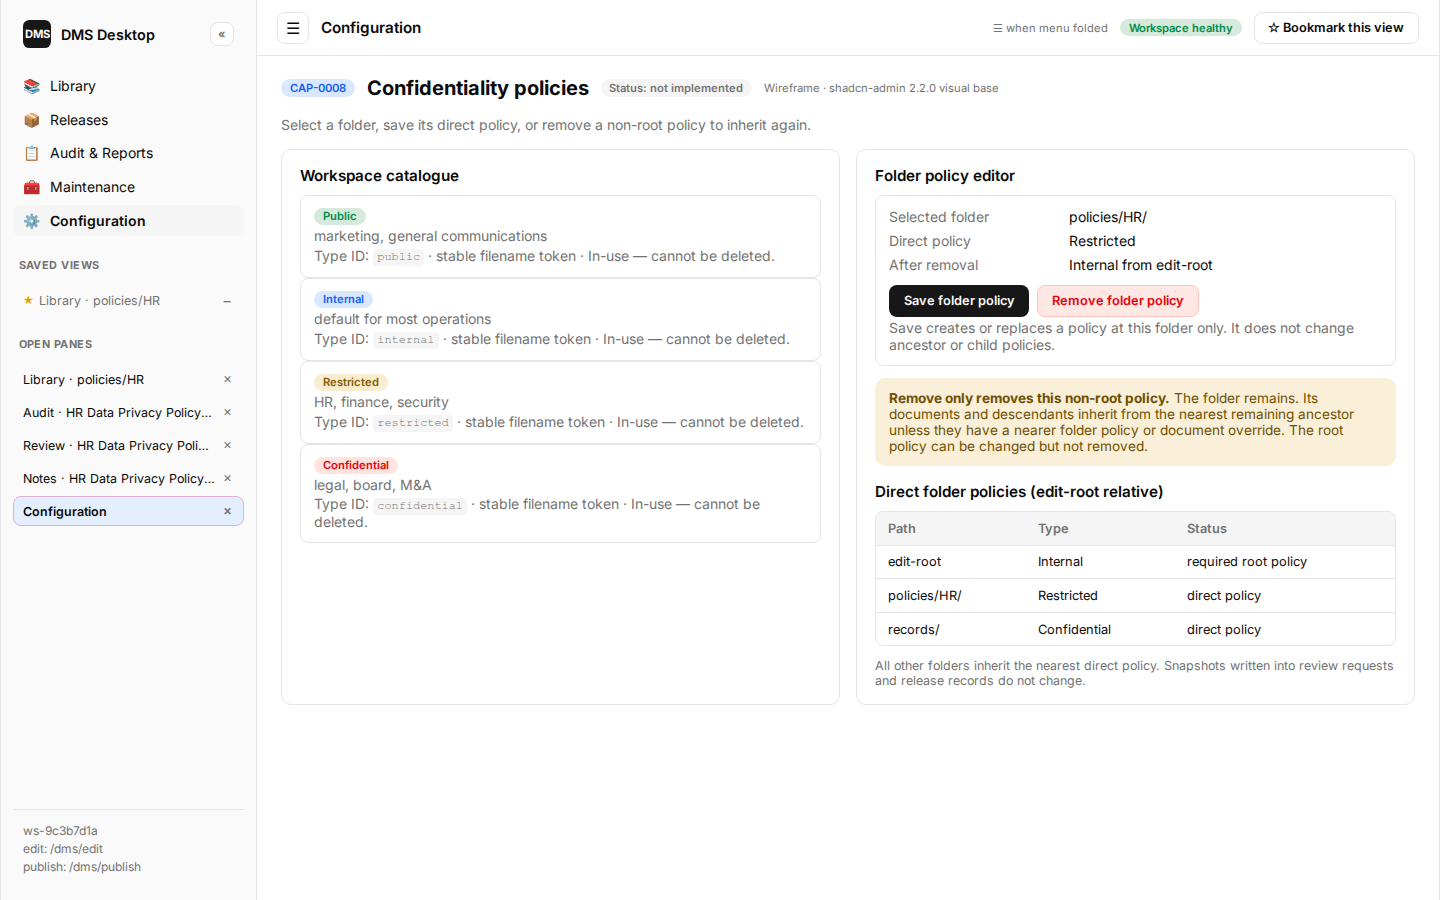
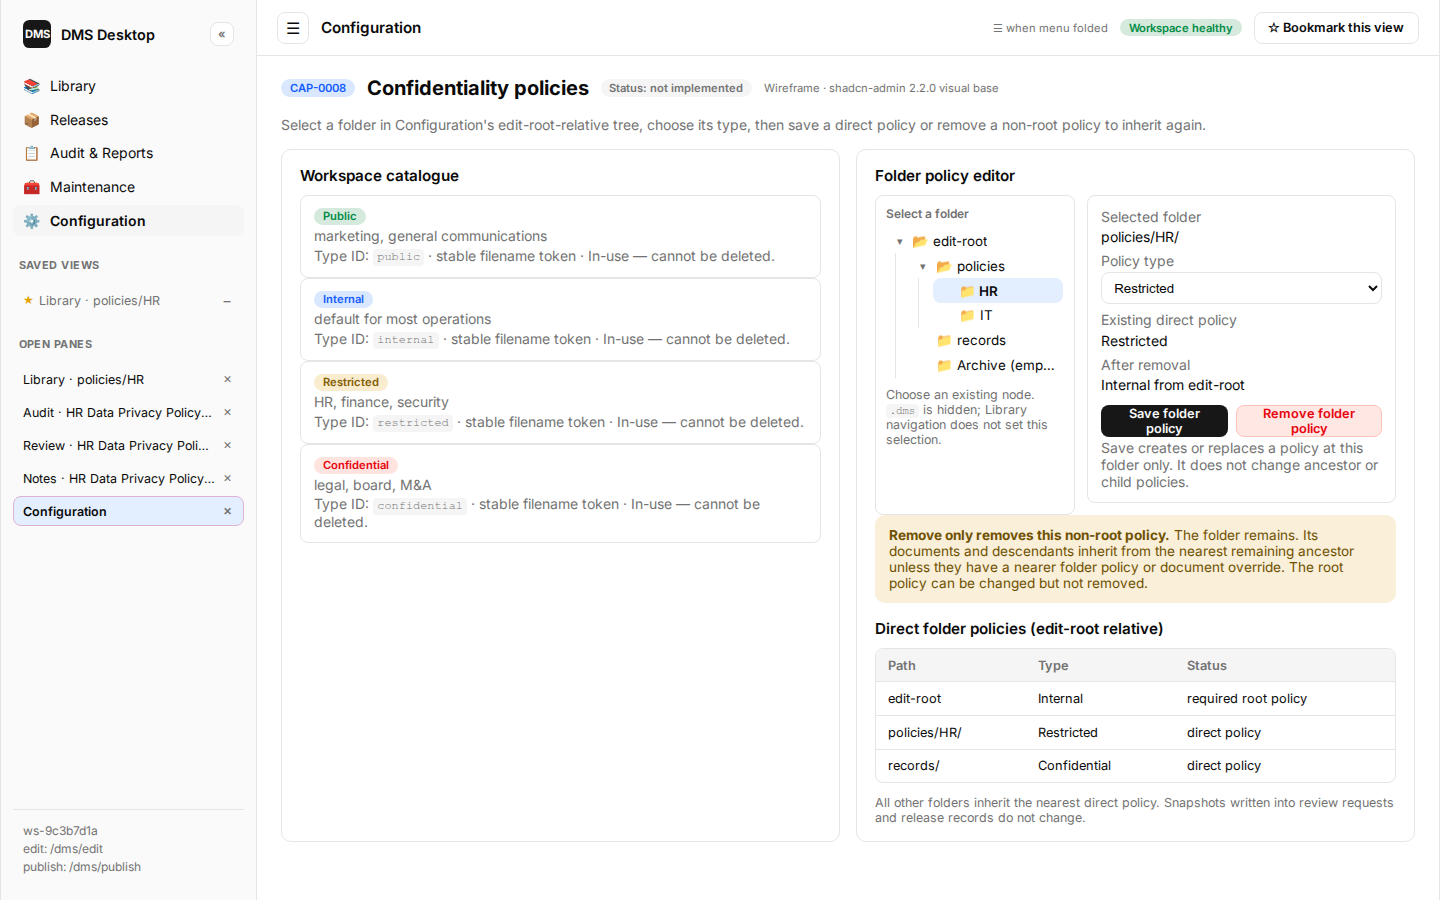
docs(confidentiality): clarify folder policy selection

Changed region(s): [[0.5938, 0.2178, 0.9688, 0.9333], [0.25, 0.1244, 0.8438, 0.1556]]

diff --git a/docs/product/wireframes/html/CAP-0008-confidentiality-classification.html b/docs/product/wireframes/html/CAP-0008-confidentiality-classification.html
@@ -226,8 +226,11 @@ tr:last-child td { border-bottom: 0; }
         <span class="badge muted">Status: not implemented</span>
         <span class="wire-meta">Wireframe · shadcn-admin 2.2.0 visual base</span>
       </div>
-      <p class="subtitle">Select a folder, save its direct policy, or remove a non-root policy to inherit again.</p>
+      <p class="subtitle">Select a folder in Configuration's edit-root-relative tree, choose its type, then save a direct policy or remove a non-root policy to inherit again.</p>
       
+      <style>
+        .app[data-cap="CAP-0008"] .policy-editor-details > div { grid-template-columns: 1fr; gap: 0.2rem; }
+      </style>
       <div class="grid-2">
         <section class="card">
           <h3 class="card-title">Workspace catalogue</h3>
@@ -238,10 +241,37 @@ tr:last-child td { border-bottom: 0; }
         </section>
         <section class="card">
           <h3 class="card-title">Folder policy editor</h3>
-          <div class="type-card mb">
-            <dl class="kv"><div><dt>Selected folder</dt><dd>policies/HR/</dd></div><div><dt>Direct policy</dt><dd>Restricted</dd></div><div><dt>After removal</dt><dd>Internal from edit-root</dd></div></dl>
+          <div class="grid-explorer" style="grid-template-columns:12.5rem minmax(0,1fr);gap:0.75rem">
+            <div class="tree" style="border:1px solid var(--border);border-radius:calc(var(--radius) - 2px);padding:0.65rem">
+              <div class="label" style="margin-bottom:0.45rem">Select a folder</div>
+              <ul class="tree-root">
+                <li>
+                  <div class="tree-node"><span class="tree-twisty">▾</span><span class="tree-label">📂 edit-root</span></div>
+                  <ul>
+                    <li>
+                      <div class="tree-node"><span class="tree-twisty">▾</span><span class="tree-label">📂 policies</span></div>
+                      <ul>
+                        <li><div class="tree-node active"><span class="tree-twisty empty">▸</span><span class="tree-label">📁 HR</span></div></li>
+                        <li><div class="tree-node"><span class="tree-twisty empty">▸</span><span class="tree-label">📁 IT</span></div></li>
+                      </ul>
+                    </li>
+                    <li><div class="tree-node"><span class="tree-twisty empty">▸</span><span class="tree-label">📁 records</span></div></li>
+                    <li><div class="tree-node"><span class="tree-twisty empty">▸</span><span class="tree-label">📁 Archive (empty)</span></div></li>
+                  </ul>
+                </li>
+              </ul>
+              <p class="hint" style="margin-top:0.55rem">Choose an existing node. <code>.dms</code> is hidden; Library navigation does not set this selection.</p>
+            </div>
+            <div class="type-card mb">
+            <dl class="kv policy-editor-details">
+              <div><dt>Selected folder</dt><dd>policies/HR/</dd></div>
+              <div><dt>Policy type</dt><dd><select aria-label="Policy type" style="width:100%;height:2rem;border:1px solid var(--input);border-radius:calc(var(--radius) - 2px);padding:0 0.5rem;background:var(--background);color:var(--foreground)"><option>Public</option><option>Internal</option><option selected>Restricted</option><option>Confidential</option></select></dd></div>
+              <div><dt>Existing direct policy</dt><dd>Restricted</dd></div>
+              <div><dt>After removal</dt><dd>Internal from edit-root</dd></div>
+            </dl>
             <div class="row gap-2" style="margin-top:0.75rem"><button class="btn">Save folder policy</button><button class="btn danger">Remove folder policy</button></div>
             <p class="hint">Save creates or replaces a policy at this folder only. It does not change ancestor or child policies.</p>
+            </div>
           </div>
           <div class="callout warn"><strong>Remove only removes this non-root policy.</strong> The folder remains. Its documents and descendants inherit from the nearest remaining ancestor unless they have a nearer folder policy or document override. The root policy can be changed but not removed.</div>
           <h3 class="card-title" style="margin-top:1rem">Direct folder policies (edit-root relative)</h3>

diff --git a/docs/product/wireframes/html/CAP-0015-document-control-data.html b/docs/product/wireframes/html/CAP-0015-document-control-data.html
@@ -287,14 +287,15 @@ tr:last-child td { border-bottom: 0; }
     </div>
     <details class="selection-section" open>
       <summary>Document control data <span>Managed in DMS Desktop</span></summary>
-      <div class="selection-section-body"><dl class="kv"><div><dt>Title</dt><dd>HR Data Privacy Policy</dd></div><div><dt>Document number</dt><dd>DOC-014 (unique in workspace)</dd></div><div><dt>Document type</dt><dd>policy</dd></div><div><dt>Owner</dt><dd>Lukas Roth</dd></div><div><dt>Effective date</dt><dd>2025-08-01</dd></div><div><dt>Next review due</dt><dd>2026-08-01</dd></div><div><dt>Released</dt><dd>V1.3 (current)</dd></div><div><dt>Draft</dt><dd><span class="badge warn">newer than last release</span></dd></div><div><dt>Effective editor</dt><dd>Lukas Roth</dd></div><div><dt>Effective approver</dt><dd>Anna Berg</dd></div><div><dt>Confidentiality</dt><dd>Internal (inherited)</dd></div></dl><p class="hint">Stored in workspace metadata under <code>.dms</code>. Not read from or synchronized with Office document properties. Renaming the source file does not change these values.</p></div>
+      <div class="selection-section-body"><dl class="kv"><div><dt>Title</dt><dd>HR Data Privacy Policy</dd></div><div><dt>Document number</dt><dd>DOC-014 (unique in workspace)</dd></div><div><dt>Document type</dt><dd>policy</dd></div><div><dt>Owner</dt><dd>Lukas Roth</dd></div><div><dt>Effective date</dt><dd>2025-08-01</dd></div><div><dt>Next review due</dt><dd>2026-08-01</dd></div><div><dt>Released</dt><dd>V1.3 (current)</dd></div><div><dt>Draft</dt><dd><span class="badge warn">newer than last release</span></dd></div><div><dt>Effective editor</dt><dd>Lukas Roth</dd></div><div><dt>Effective approver</dt><dd>Anna Berg</dd></div><div><dt>Confidentiality</dt><dd>Internal (inherited from policies/HR)</dd></div></dl><p class="hint">Stored in workspace metadata under <code>.dms</code>. Not read from or synchronized with Office document properties. Renaming the source file does not change these values.</p></div>
     </details>
     <details class="selection-section" open>
-      <summary>Actions <span>15 available</span></summary>
+      <summary>Actions <span>16 available</span></summary>
       <div class="selection-section-body stack-btns">
         <button class="btn outline">Open draft</button>
         <button class="btn outline">Open latest released PDF</button>
         <button class="btn outline">Edit document control data</button>
+        <button class="btn outline">Override confidentiality…</button>
         <button class="btn outline">Submit for review</button>
         <button class="btn outline">Begin revision</button>
         <button class="btn outline">Cancel review</button>

diff --git a/docs/changes/active/CHG-0001-tauri-local-dms-bootstrap.md b/docs/changes/active/CHG-0001-tauri-local-dms-bootstrap.md
@@ -14,6 +14,7 @@
 | Follow-up request | Direct operator request: reconcile published/release terminology. `publish root` names the storage destination only; release is the sole workflow action and lifecycle transition that creates a released PDF. |
 | Follow-up request | Direct operator request: define the approval-task email’s canonical subject and body; include the requester, DMS-managed title, and target version. |
 | Follow-up request | Direct operator request: only major version changes need approval; after a minor version is published, notify the document's approver about the new minor publication. |
+| Follow-up request | Direct operator request: clarify how an operator selects a folder for confidentiality policy and exactly which documents that policy classifies. Proceed as recommended. |
 | Affected CAPs | CAP-0001 … CAP-0021 |
 | Decision records | ADR-0001 … ADR-0021 in `docs/design-decisions.md` |
 
@@ -55,9 +56,12 @@ macOS** that:
 - Registers stable document permalinks (workspace ID + document ID; optional
   review/notes target) that survive draft rename and version bumps; selection
   pane can copy the permalink
-- Applies inherited confidentiality types from direct folder policies: the root
-  policy is required, non-root policies can be assigned, replaced, or removed,
-  with per-document overrides and release-time snapshots
+- Applies inherited confidentiality types to library documents from direct folder
+  policies: Configuration has its own edit-root-relative folder tree for policy
+  selection; the root policy is required, non-root policies can be assigned,
+  replaced, or removed, and a single selected library document can carry an
+  override; unregistered files have no DMS classification and release-time
+  snapshots remain immutable
 - Before review submission and release, checks the current source draft for
   canonical version and confidentiality markers. A missing, mismatched, or
   ambiguous marker blocks the transition by default; an operator can continue
@@ -111,7 +115,7 @@ macOS** that:
 | 0a | Microsoft Entra workflow identity records and wireframes | done (CAP-0021, CAP-0019, ADR-0019, ADR-0021, architecture, privacy, and static screens updated) | CAP-0021 + ADR-0021 replace the application roster with a group binding; CAP-0019 selects only eligible Entra users; static screens show a read-only source, folder-role selection, and no user CRUD; all CAP/CHG/ADR indexes and links validate; no CAP claims implemented runtime |
 | 0b | Target-version review, major-only approval, and failure-evidence records + wireframes | done (CAP-0002/0011/0012, CAP-0010, ADR-0007/0013, architecture, and affected static screens updated) | CAP-0002/0011/0012 define the required changelog, minor/major/manual candidate selection, no-reservation rule, `V1.0`/major-only approval, direct minor release with effective-approver publication notification, explicit release actions, optional non-approval comment, and newest-first workflow history; CAP-0010 defines the canonical major-review and minor-publication messages; CHG/ADR/architecture align; affected static screens show direct minor release, major review, and retained unsuccessful evidence; generated exports, links, and Markdown checks pass; no CAP claims implemented runtime |
 | 1 | Tauri 2 app skeleton (Windows + macOS) + DOX for source tree | pending | Dev app launches on Windows and macOS; README run steps for both; foldable left menu + hamburger + session-only open-activity tabs show task-and-target labels and focus an existing matching task+document pane; collapsed rail icons open saved-view and open-pane flyouts without expanding the whole menu, with open/remove and focus/close actions respectively; explicit saved-view bookmark persists in OS user config and restores as a fresh activity |
-| 2 | `.dms` store + dual-root open/configure + confidentiality, Entra identity binding, and workflow-role policies | pending | Tests: persist/reload edit+publish roots, stable workspace ID, schema version, and non-secret Entra tenant/group binding; safe older-schema migration/newer-schema read-only; create/replace a direct folder policy, remove a non-root policy, refuse root-policy removal, and recompute nearest inherited class; inherit each workflow role independently; replacing the identity source marks live role policies unresolved without changing historical evidence; init `.dms` only on confirm |
+| 2 | `.dms` store + dual-root open/configure + confidentiality, Entra identity binding, and workflow-role policies | pending | Tests: persist/reload edit+publish roots, stable workspace ID, schema version, and non-secret Entra tenant/group binding; Configuration's edit-root-relative policy tree includes the root, empty accessible folders, and no `.dms`, and permits only its selected existing node as a policy target; create/replace a direct folder policy, remove a non-root policy, refuse root-policy removal, resolve the nearest inherited class for library documents only, and preserve a document override; inherit each workflow role independently; replacing the identity source marks live role policies unresolved without changing historical evidence; init `.dms` only on confirm |
 | 3 | Folder-first Library explorer + add/unregister/reassociate + selection pane | pending | Tests: folder pane is visible by default and includes empty edit-root folders while hiding `.dms`; Back/Forward/Up, breadcrumb, tree, and immediate-child contents stay synchronized; every file row keeps its exact filesystem name while an in-library row shows DMS-managed document data separately; one or more unregistered supported source files (including `.md`) can be selected and added from the right pane, while mixed/unsupported selections expose no incompatible batch action; folder navigation reuses one Library activity and updates its folder label; add under edit root; reject outside path; unregister preserves history; rename/reassociate updates only the source locator and does not change document control data or history; ambiguous move is never auto-linked; current-folder and Entire-library search scopes return matching files with paths and clear back to the complete folder listing; single controlled-document selection shows an always-visible Source file identity plus CAP-0015 Document control data and actions in the right pane; the data is loaded from `.dms`, not Office properties or Markdown front matter; its data, action, revision, and release sections fold independently while retaining document and source-file identity; navigating to an already-open task+document focuses the existing pane, while different tasks for that document may remain open; multi-select of controlled documents shows only multi-applicable actions in the same pane; a saved library view restores folder/sort and a single-document stable ID but never batch selection; copy permalink uses workspace+document IDs only and never changes saved views |
 | 4 | Lifecycle + Entra-verified major approval + notification + target-version release + tree mirror | pending | Tests with a Graph client fake: every release requires non-empty changelog, requester, one target mode (next minor, next major, or validated manual greater-than-current unused target), and release-time validation; `V1.0`, major, and a manual target with a higher major component require a current eligible effective approver plus transport success, while a minor candidate creates no review request and releases directly after validation; a failed group refresh or unresolved identity blocks an approval-required request and minor-publication recipient snapshot; SMTP and `mailto:` render the canonical major-review subject/body with DMS-managed title, filesystem-derived relative source path, requester display name, candidate target version, confidentiality label, action, and CAP-0020 review permalink only, and render the committed-minor publication notification to the effective approver; decision requires the snapshotted Entra tenant/object ID and current eligibility; rejected/changes-requested decisions prompt for an optional reason; the workflow history retains changelog, candidate, mode, major decision evidence when applicable, and minor publication delivery attempts newest first while retaining each predecessor hash; a rejected, changes-requested, cancelled, invalidated, or failed-export candidate remains available; CAP-0020 deep link resolves only an accessible registered workspace to the intended review request and still resolves after rename/version bump; each decision notifies the snapshotted requester, while minor publication delivery failure is retryable and never reverses its committed release; approver-policy change invalidates an open review; DOCX body/header/footer and Markdown rendered-body version and confidentiality markers must equal the candidate release and effective type before an approval-required review and again before every release; missing, mismatched, and conflicting markers block by default; an explicit, reasoned false-positive override is revision-bound, visible to the approver, and recorded in the event chain; major approval preserves its accepted target but only atomic export commits it; metadata change invalidates approval; first version V1.0; refuse overwrite |
 | 5 | Format-specific local PDF export on release (Win + macOS adapters) | pending | Tests/integration: export Office drafts through installed Office (or a test double), replacing `{CONFIDENTIALITY}`/`{VERSION}` on a temp copy from the release chrome map; export Markdown through CommonMark + shipped print shell (logo, `Vertraulichkeitsstufe:` / `Version:` footers from the same map, front matter stripped) + native WebView PDF API to the versioned, classified path on each OS; PDF chrome values match the release snapshot; a failed export does not commit or occupy the approved target; WebView2 and WKWebView smoke cover multi-page footer chrome |

diff --git a/docs/product/capabilities/CAP-0008-confidentiality-classification.md b/docs/product/capabilities/CAP-0008-confidentiality-classification.md
@@ -16,33 +16,46 @@ When implemented, the following must hold:
    hyphens; for example `restricted`) and a display label. Renaming a label
    never changes its ID. Deletion is rejected while a folder policy, document,
    or historical release references the ID.
-2. The folder-policy editor targets only the edit root or an existing folder
-   under it, identified by its edit-root-relative path. **Save folder policy**
-   creates a direct policy for the selected folder or replaces that folder's
-   existing direct policy; it does not create policies for ancestors or
-   descendants.
-3. The edit root always has a direct policy and is the required fallback. Its
+2. Under **Configuration**, the folder-policy editor shows an
+   edit-root-relative folder tree containing the edit root and every accessible
+   descendant folder, including empty folders and folders without library
+   documents; `<edit-root>/.dms` is excluded. Selecting a tree node is the only
+   way to choose the editor target. The editor shows that selected relative path;
+   it does not accept an arbitrary typed path and does not reuse Library
+   navigation selection.
+3. The editor targets only the selected edit root or existing folder under it.
+   The operator chooses one enabled confidentiality type from the workspace
+   catalogue. **Save folder policy** creates a direct policy for the selected
+   folder or replaces that folder's existing direct policy; it does not create
+   policies for ancestors or descendants.
+4. The edit root always has a direct policy and is the required fallback. Its
    type can be replaced but its policy cannot be removed. **Remove folder
    policy** is available only for a non-root folder and removes that folder's
    direct policy record. It neither deletes or moves the folder nor changes a
    child folder policy or a document-level override.
-4. A folder policy applies to that folder and all descendant folders unless a
+5. A folder policy applies to that folder and all descendant folders unless a
    nearer direct folder policy exists. Removing a non-root policy immediately
    makes the selected folder and every descendant without a nearer policy
    inherit the nearest remaining ancestor policy; it does not copy that type
    into any folder or document record.
-5. A document without an explicit type uses the nearest ancestor folder type;
-   the root policy is the required fallback. The explorer displays the effective
-   type, its source folder, and whether it is inherited or explicitly overridden.
-6. An operator can set or clear a document-level override. Clearing it restores
-   inherited behaviour without copying a policy into the document record.
-7. Changing, adding, or removing a folder policy immediately changes the
+6. For each **library document**, the app resolves the effective type from the
+   document's current edit-root-relative source path and the nearest ancestor
+   folder policy; the root policy is the required fallback. A file that is not
+   in the library has no DMS confidentiality classification. The explorer's
+   library row and single-document selection pane display the effective type,
+   its source folder, and whether it is inherited or explicitly overridden.
+7. For exactly one selected library document, the selection pane offers an
+   **Override confidentiality** action. The operator can choose one enabled
+   type as a document-level override or clear the existing override. Clearing it
+   restores inherited behaviour without copying a policy into the document
+   record.
+8. Changing, adding, or removing a folder policy immediately changes the
    effective type of inheriting descendants only. Explicit document overrides
    and nearer folder policies are unchanged.
-8. A review request and a released version snapshot the effective type ID and
+9. A review request and a released version snapshot the effective type ID and
    display label in their immutable workflow/release evidence. Later policy
    changes or label renames do not rewrite historical records or PDF filenames.
-9. If a document's effective confidentiality type changes while an
+10. If a document's effective confidentiality type changes while an
    approval-required content review is open or after approval but before release,
    the request/approval is invalidated and a new review is required. Historical
    snapshots remain unchanged.

diff --git a/docs/product/capabilities/CAP-0015-document-control-data.md b/docs/product/capabilities/CAP-0015-document-control-data.md
@@ -66,17 +66,20 @@ When implemented, the following must hold:
    the same reference-protection rule as confidentiality types (CAP-0008 /
    CAP-0013): types referenced by documents or history cannot be hard-deleted.
 10. Document-control-data edits are recorded as
-    `document_control_data_changed` events with
-    before/after values. Changing title, document number, document type, owner,
-    effective date, or effective confidentiality while content review is open
-    or after approval invalidates that request/approval. Review-schedule changes
-    do not invalidate content approval but remain auditable.
+    `document_control_data_changed` events with before/after values. Changing
+    title, document number, document type, owner, or effective date while
+    content review is open or after approval invalidates that request/approval.
+    Changing the document's effective confidentiality through CAP-0008 has the
+    same invalidation effect. Review-schedule changes do not invalidate content
+    approval but remain auditable.
 11. The CAP-0006 selection pane and any expanded document-control-data form show
     document control data, current released version (with a recent release list
     when space allows),
     next review due (with **overdue** highlight when past due and not obsolete),
-    lifecycle state, and effective editor/approver (CAP-0019). For exactly one
-    selected document, the pane groups **Document control data**, **Actions**,
+    lifecycle state, effective confidentiality with its source and
+    inherited/overridden status (CAP-0008), and effective editor/approver
+    (CAP-0019). For exactly one selected document, the pane groups **Document
+    control data**, **Actions**,
     **Revision cycle**, and **Releases** into independently foldable sections;
     the document identity and lifecycle state remain visible while any section
     is folded. Document actions sit in the same pane under the document control

diff --git a/docs/product/capabilities/CAP-0006-library-explorer.md b/docs/product/capabilities/CAP-0006-library-explorer.md
@@ -74,6 +74,7 @@ When implemented, the following must hold:
    - an always-visible **Source file** identity with the exact file name and its
      edit-root-relative folder/path, derived from the filesystem
    - CAP-0015 **Document control data** and related status (effective
+     confidentiality with its source and inherited/overridden status, effective
      editor/approver, current release, draft-newer marker)
    - **document actions** for that selection
    CAP-0015 owns field rules and revision/obsolescence semantics; CAP-0006 owns
@@ -98,6 +99,9 @@ When implemented, the following must hold:
    - **Open latest released PDF** (CAP-0015) when a current released version
      exists
    - **Edit document control data** (CAP-0015)
+   - **Override confidentiality** (CAP-0008) for the selected document; the
+     action selects or clears that document's explicit type and is unavailable
+     for multi-select
    - **Submit for review**, **Begin revision**, **Cancel review**, **Release**
      when the lifecycle allows (CAP-0002 / CAP-0015)
    - **Mark obsolete** (CAP-0015)
